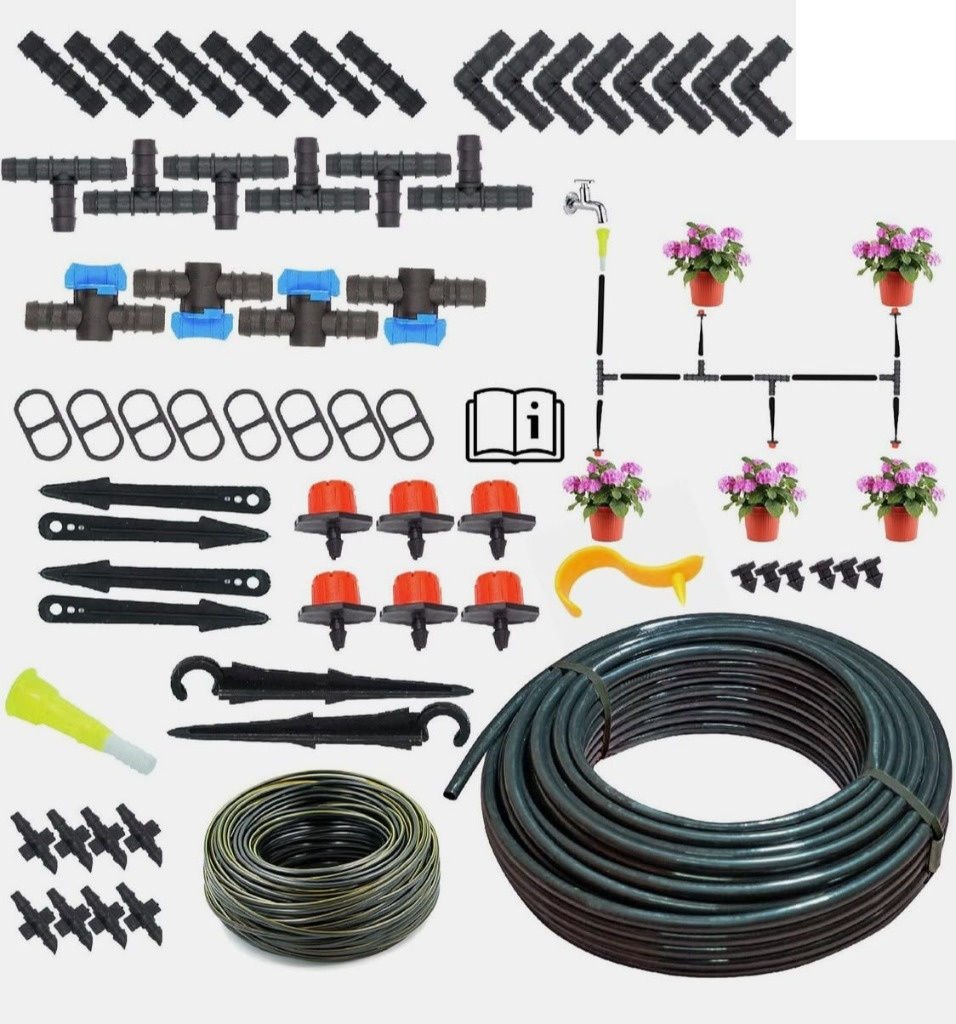
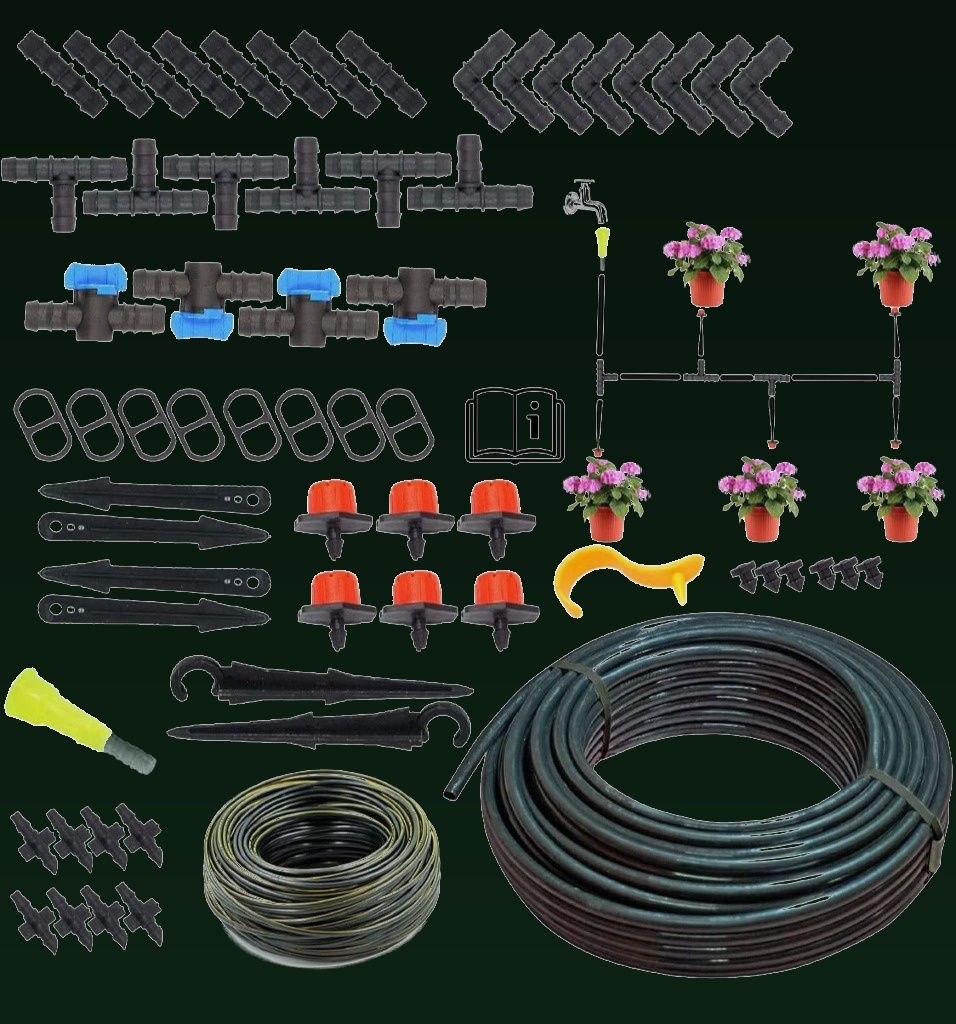
Refine hero badge translations, HUD coords spacing, and seamless dark-emerald theme blending on accessories image

diff --git a/index.html b/index.html
@@ -71,7 +71,7 @@
           </h1>
           <div class="kannada-badge">
             <span class="k-dot"></span>
-            <span data-i18n="hero_badge">ಹನಿ ನೀರಾವರಿ ಪದ್ಧತಿಯ ಎಲ್ಲಾ ಗುಣಮಟ್ಟದ ಉಪಕರಣಗಳು ದೊರೆಯುತ್ತವೆ</span>
+            <span data-i18n="hero_badge">All Branded Precision Drip Irrigation Equipment Available</span>
           </div>
 
           <!-- 3 Visual Pillars Showcase Dock (System Layout, Field Action, Accessories) -->

diff --git a/app.js b/app.js
@@ -22,7 +22,7 @@
       hero_chip: 'SRINIDHI ENTERPRISES · BETHAMANGALA',
       hero_h1_l1: 'Precision Irrigation',
       hero_h1_l2: 'For Every Single Drop',
-      hero_badge: 'ಹನಿ ನೀರಾವರಿ ಪದ್ಧತಿಯ ಎಲ್ಲಾ ಗುಣಮಟ್ಟದ ಉಪಕರಣಗಳು ದೊರೆಯುತ್ತವೆ',
+      hero_badge: 'All Branded Precision Drip Irrigation Equipment Available',
       
       dock_title: 'SYSTEM ESSENTIALS · 3 KEY PILLARS',
       dock_tap_view: 'TAP TO VIEW',

diff --git a/styles.css b/styles.css
@@ -701,9 +701,9 @@ a {
 
 .hud-coords {
   position: absolute;
-  left: 6%;
-  top: 24%;
-  padding: 14px 18px;
+  left: clamp(16px, 3.2vw, 42px);
+  top: clamp(14%, 18vh, 22%);
+  padding: 12px 16px;
   background: var(--glass);
   border: 1px solid var(--glass-border);
   backdrop-filter: blur(16px);
@@ -711,6 +711,7 @@ a {
   border-radius: 8px;
   color: #ffffff;
   box-shadow: 0 8px 32px rgba(0, 0, 0, 0.35);
+  max-width: 220px;
 }
 
 .coord-pre {
